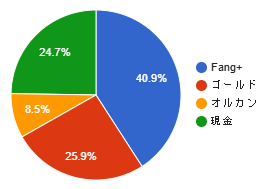
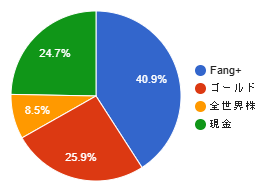
fix: kiji

diff --git a/src/contents/inv-my-portfolio-2025.md b/src/contents/inv-my-portfolio-2025.md
@@ -23,15 +23,21 @@ created: 2025-08-18
 
 - Fang+：60%
 - ゴールド：30%
-- オルカン：10%
+- 全世界株：10%
 
 また、暴落時にはFang+をスポット購入する予定です。
 
 ### リバランスルール
 
-- 1年のトータルリターンでFang+がオルカンを下回った場合、Fang+をSP500・オルカンへ乗り換え（20%以上の暴落時は除外）
-- Fang+リバランス後はSP500・ゴールド・オルカンを1:1:1に調整
-- 3年のトータルリターンでゴールドがオルカンを下回った場合、ゴールドをオルカンへ乗り換え
+- 1年のトータルリターンでFang+が全世界株を下回った場合、Fang+をSP500・全世界株へ乗り換え（20%以上の暴落時は除外）
+- Fang+リバランス後はSP500・ゴールド・全世界株を1:1:1に調整
+- 3年のトータルリターンでゴールドが全世界株を下回った場合、ゴールドを全世界株へ乗り換え
+
+### 具体的な銘柄
+
+- Fang+：[iFreeNEXT FANG+インデックス](https://www.daiwa-am.co.jp/funds/detail/3346/detail_top.html)
+- ゴールド：[SBI・iシェアーズ・ゴールドファンド（為替ヘッジなし）](https://apl.wealthadvisor.jp/webasp/sbi_am/pc/basic/sa_202306080A.html)
+- 全世界株：[eMAXIS Slim 全世界株式（オール・カントリー）](https://emaxis.am.mufg.jp/fund/253425.html)
 
 ## Fang+を重視する理由
 
@@ -59,13 +65,13 @@ created: 2025-08-18
 #### Fang+銘柄のインデックス占有率
 
 - Fang+：米国市場の[25%](https://www.daiwa-am.co.jp/special/fang/index.html)の時価総額
-- オルカン：米国が[64.5%](https://www.am.mufg.jp/pdf/koumokuromi/253425/253425_20250725.pdf)を占める
+- 全世界株：米国が[64.5%](https://www.am.mufg.jp/pdf/koumokuromi/253425/253425_20250725.pdf)を占める
 
 Fang+銘柄の占有率概算
 
 - Fang+: 100%
 - SP500: 25%
-- オルカン: 16%
+- 全世界株: 16%
 
 たった10銘柄のFang+が、インデックス全体に大きな影響を与えることが容易に想像できます。
 
@@ -149,11 +155,11 @@ Fang+は、原則この6銘柄を組み入れることを[公表](https://www.da
 
 これらに直接的な因果関係はほぼありませんが、ゴールドを持つことで、新興国の経済成長を享受することができると考えています。
 
-## オルカンを組み入れる理由
+## 全世界株を組み入れる理由
 
-ここまでの流れでFang+とゴールドだけでいいのでは?と思います。オルカンを組み入れる理由として
+ここまでの流れでFang+とゴールドだけでいいのでは?と思います。全世界株を組み入れる理由として
 - 中長期投資の分散狙いではない
 - 超長期の投資でNISA枠の取得基準価格を下げる狙い
-- 超長期目標として、NISA積立投資枠をオルカンで埋める
+- 超長期目標として、NISA積立投資枠を全世界株で埋める
 
-Fang+とゴールドは5~10年を出口にした投資としては、悪くないラインを行けると思います。しかし、30年以上先を出口にする場合、適切ではない可能性が高いです。そのため、30年以上の超長期を想定して、オルカンを組み入れてみました。
+Fang+とゴールドは5~10年を出口にした投資としては、悪くないラインを行けると思います。しかし、30年以上先を出口にする場合、適切ではない可能性が高いです。そのため、30年以上の超長期を想定して、全世界株を組み入れてみました。
